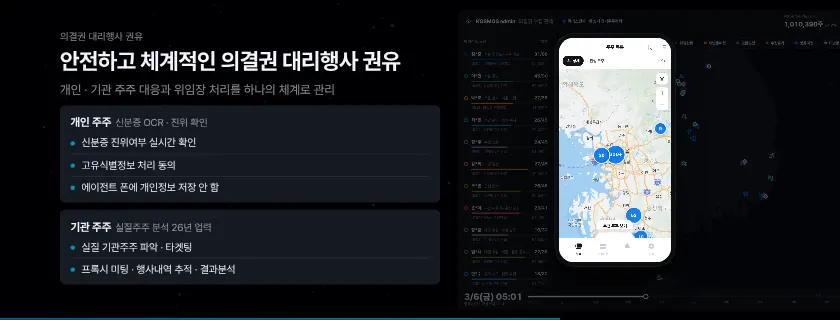
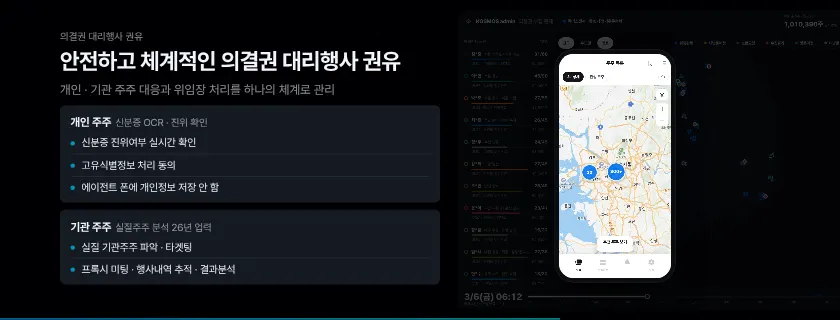
세션4 K24a 뒤 관제 화면 더 어둡게(.42 → .26), 휴대폰 80px 아래로
Claude-Session: https://claude.ai/code/session_01Mn7NmyW5iujmmHnaRBFKBZ

Changed region(s): [[0.65, 0.0938, 0.8048, 0.875], [0.5571, 0.9062, 0.619, 0.9375], [0.7429, 0.9062, 0.7738, 0.9375]]

diff --git a/sw.js b/sw.js
@@ -1,5 +1,5 @@
 /* 오프라인 캐시 — 온라인 주소(https)로 한 번 열면 모든 파일을 저장해 두고, 통신이 끊겨도 저장본으로 동작합니다. */
-const V='seminar-screen-11272225';
+const V='seminar-screen-11272226';
 const FILES=["./","assets/KakaoBigSans-Bold.woff2","assets/KakaoBigSans-Regular.woff2","assets/KakaoSmallSans-Bold.woff2","assets/KakaoSmallSans-Light.woff2","assets/KakaoSmallSans-Regular.woff2","assets/OrbitControls.js","assets/PretendardVariable.woff2","assets/attendees.js","assets/blue-bloom.html","assets/cong1.webp","assets/cong2.webp","assets/ds-bg.html","assets/four-states.html","assets/intro.mp4","assets/irk-white.svg","assets/irk-wordmark-white.svg","assets/kism-intro.mp4","assets/kism-white.svg","assets/ksmp-white.svg","assets/panel.js","assets/qa-online.js","assets/s2/img1.png","assets/s2/img2.png","assets/s2/img3.png","assets/s2/img4.png","assets/s4/aws.webp","assets/s4/callcenter.webp","assets/s4/chair-1.webp","assets/s4/chair-2.webp","assets/s4/chair-3.webp","assets/s4/conexus-word.webp","assets/s4/ctl-1.webp","assets/s4/cx-1.webp","assets/s4/cx-2.webp","assets/s4/cx-3.webp","assets/s4/cx-flow.mp4","assets/s4/cx-pop1.webp","assets/s4/cx-pop2.webp","assets/s4/cx-vote.mp4","assets/s4/cx-vote.webp","assets/s4/cxs-1.webp","assets/s4/insurance.webp","assets/s4/isms-t.webp","assets/s4/isms.webp","assets/s4/ismsp-t.webp","assets/s4/ismsp.webp","assets/s4/kosmos-white.png","assets/s4/ks-1.webp","assets/s4/ks-2.webp","assets/s4/ks-3.webp","assets/s4/ks-4.webp","assets/s4/ks-5.webp","assets/s4/ks-video.webp","assets/s4/live-1.webp","assets/s4/live-2.webp","assets/s4/live-3.webp","assets/s4/live-4.webp","assets/s4/live-5.webp","assets/s4/live-6.webp","assets/s4/live-7.webp","assets/s4/live-8.webp","assets/s4/logos.webp","assets/s4/ocr-1.webp","assets/s4/ocr-2.webp","assets/s4/ocr-3.webp","assets/s4/ocr-4.webp","assets/s4/ocr-5.webp","assets/s4/on-1.png","assets/s4/on-2.webp","assets/s4/on-3.webp","assets/s4/on-4.png","assets/s4/on-5.webp","assets/s4/onboard-1.webp","assets/s4/onboard-2.webp","assets/s4/privacy.webp","assets/s4/proxymity.svg","assets/s4/rehearsal.webp","assets/s4/streaming-korea.webp","assets/s4/tab-1.webp","assets/s4/tab-2.webp","assets/s4/team.webp","assets/sched.js","assets/screen-title-2.svg","assets/screen-title-b-text.svg","assets/screen-title-b.svg","assets/seat-banners.js","assets/seat-fascia.js","assets/seat-screen.js","assets/seatmap.js","assets/service-intro.mp4","assets/speaker-scott.webp","assets/speaker1-1.webp","assets/speaker2.webp","assets/speaker3-1.webp","assets/supabase.min.js","assets/three.min.js","assets/title-logos.svg","control.html","index-fs.html","index.html","kism.html","lobby/cuts.html","lobby/index.html","mc.html","session2.html","session4.html","sw.js","tools/s2_build.py","tools/s2_shell.html","assets/s3/p01.webp","assets/s3/p02.webp","assets/s3/p03.webp","assets/s3/p04.webp","assets/s3/p05.webp","assets/s3/p06.webp","assets/s3/p07.webp","assets/s3/p08.webp","assets/s3/p09.webp","assets/s3/p10.webp","assets/s3/p11.webp","assets/s3/p12.webp","assets/s3/p13.webp","assets/s3/p14.webp","assets/s3/p15.webp","assets/s3/p16.webp","assets/s3/p17.webp","assets/s3/p18.webp","assets/s3/p19.webp","assets/s3/p20.webp","assets/s3/p21.webp","assets/s3/p22.webp","assets/s3/p23.webp","assets/kism/photo-main.webp","assets/kism/photo-2.webp","assets/kism/photo-3.webp","assets/kism/photo-4.webp","assets/sound/countdown-tick.mp3","assets/sound/sfx-s3-part.mp3","assets/sound/sfx-s4-reveal.mp3","assets/sound/sfx-s5-proxymity.mp3","assets/sound/sfx-s6-chime.mp3","assets/sound/sfx-s7-close.mp3","assets/sound/sfx-k-chapter.mp3","assets/sound/sfx-k-close.mp3","assets/sound/opening-hit.mp3","assets/s4/kosmos-color.svg","assets/s4/ke-logo.png","assets/s4/ke-live.mp4","assets/kism/kwon-talk.mp4","assets/kism/manual-book.webp","kism-open.html","kism_16x9.html","led.html","assets/s4/cx-ops.mp4","assets/s4/cx-ops.webp","assets/s4/agent-app.mp4","assets/s4/kosmos-web.webp","assets/s4/ks-attend.mp4","assets/s4/ks-attend.webp","assets/s4/ks-switch.mp4","assets/s4/ks-switch.webp","assets/s4/ks-notify.mp4","assets/s4/ks-notify.webp","assets/s4/ks-vote.mp4","assets/s4/ks-vote.webp","assets/s4/ks-qna.mp4","assets/s4/ks-qna.webp","assets/s4/pc-map.webp","assets/s4/pc-map.mp4","assets/s4/pc-web.mp4","assets/s4/pc-web.webp","assets/s4/agent-app.webp","assets/s4/k24b-bg.webp","session0.html","face.html","assets/face-link.js","assets/kism/photo-main-cut.webp","assets/s4/cx-chair.mp4","assets/s4/cx-chair.webp","assets/s4/cx-test.mp4","assets/s4/cx-test.webp","assets/s4/onboard-mgr.webp","assets/s4/proxymity-logo.png","assets/s4/k21-bg.webp","assets/s4/kosmos-admin-white.svg","assets/kism-intro-16x9.mp4","assets/seat-guide.html","assets/s4/app-icon-agent.svg","assets/ds-main.mp4","assets/s4/k2-agency.webp","assets/s4/k2-support.webp","assets/s4/thumbs/K00.webp","assets/s4/thumbs/K01.webp","assets/s4/thumbs/K02.webp","assets/s4/thumbs/K03.webp","assets/s4/thumbs/K04.webp","assets/s4/thumbs/K05.webp","assets/s4/thumbs/K06.webp","assets/s4/thumbs/K07.webp","assets/s4/thumbs/K08.webp","assets/s4/thumbs/K09.webp","assets/s4/thumbs/K10.webp","assets/s4/thumbs/K11.webp","assets/s4/thumbs/K12.webp","assets/s4/thumbs/K13.webp","assets/s4/thumbs/K14.webp","assets/s4/thumbs/K15.webp","assets/s4/thumbs/K16.webp","assets/s4/thumbs/K17.webp","assets/s4/thumbs/K18a.webp","assets/s4/thumbs/K18b.webp","assets/s4/thumbs/K18c.webp","assets/s4/thumbs/K19.webp","assets/s4/thumbs/K19b.webp","assets/s4/thumbs/K19c.webp","assets/s4/thumbs/K20.webp","assets/s4/thumbs/K21.webp","assets/s4/thumbs/K21b.webp","assets/s4/thumbs/K22s.webp","assets/s4/thumbs/K23.webp","assets/s4/thumbs/K23b.webp","assets/s4/thumbs/K24a.webp","assets/s4/thumbs/K24b.webp","assets/s4/thumbs/K24c.webp","assets/s4/thumbs/K25.webp","assets/s4/thumbs/K25b.webp","assets/s4/thumbs/K26.webp","assets/s4/thumbs/K27.webp","assets/s4/thumbs/K28a.webp","assets/s4/thumbs/K28b.webp","assets/s4/thumbs/K28c.webp","assets/s4/thumbs/K28d.webp","assets/s4/thumbs/K29.webp","assets/s4/thumbs/K30.webp","assets/s4/thumbs/K09b.webp","assets/s4/thumbs/K28e.webp","assets/s4/thumbs/K28p.webp","assets/s4/onsite-vote.mp4","assets/s4/onsite-vote.webp","assets/s4/rehearsal-site.webp","assets/qr-ask.svg","assets/inv/bnp.png","assets/inv/bny.png","assets/inv/citi.png","assets/inv/computershare.png","assets/inv/deutsche-bank.png","assets/inv/deutsche-boerse.png","assets/inv/euroclear.png","assets/inv/hsbc.png","assets/inv/jpmorgan.png","assets/inv/mufg.png","assets/inv/state-street.png","assets/proxymity-logo.png","assets/sound/break-bgm.mp3","assets/sound/wait-bgm.mp3","assets/s4/beacon.webp"];
 self.addEventListener('install',e=>{e.waitUntil(caches.open(V).then(c=>c.addAll(FILES)).then(()=>self.skipWaiting()));});
 self.addEventListener('activate',e=>{e.waitUntil(caches.keys().then(ks=>Promise.all(ks.filter(k=>k!==V).map(k=>caches.delete(k)))).then(()=>self.clients.claim()));});

diff --git a/session4.html b/session4.html
@@ -2229,6 +2229,9 @@ html.r169 #K24a .k24map{left:1540px!important;top:50px!important}
 .s.cur#K14 .k14ln .b{transition:stroke-dashoffset .8s cubic-bezier(.4,0,.2,1) .5s;stroke-dashoffset:0}
 /* 11/27 22:33 K18b 휴대폰 2대 60px 아래로 */
 #K18b .ph{translate:-200px 60px}
+/* 11/27 22:38 K24a 뒤 관제 화면 더 어둡게, 휴대폰 80px 아래로 */
+.s.cur#K24a .k24map{opacity:.26!important}
+#K24a .k24p{top:250px!important}
 /* ═════ 16:9 버전 (?a=16x9, 11/27) ═════
    ※ 빔프로젝터(led.html?a=16x9) M7-7이 이 모드를 씀. 장을 고치면 ?a=16x9로도 확인하고, 21:8 원본 위치를 바꾸면 아래 html.r169 #Kxx 규칙도 같이 맞출 것.
       R169Z(묶음 축소) 장은 내용 범위를 자동으로 재서 배치하므로 대부분 따라감.
